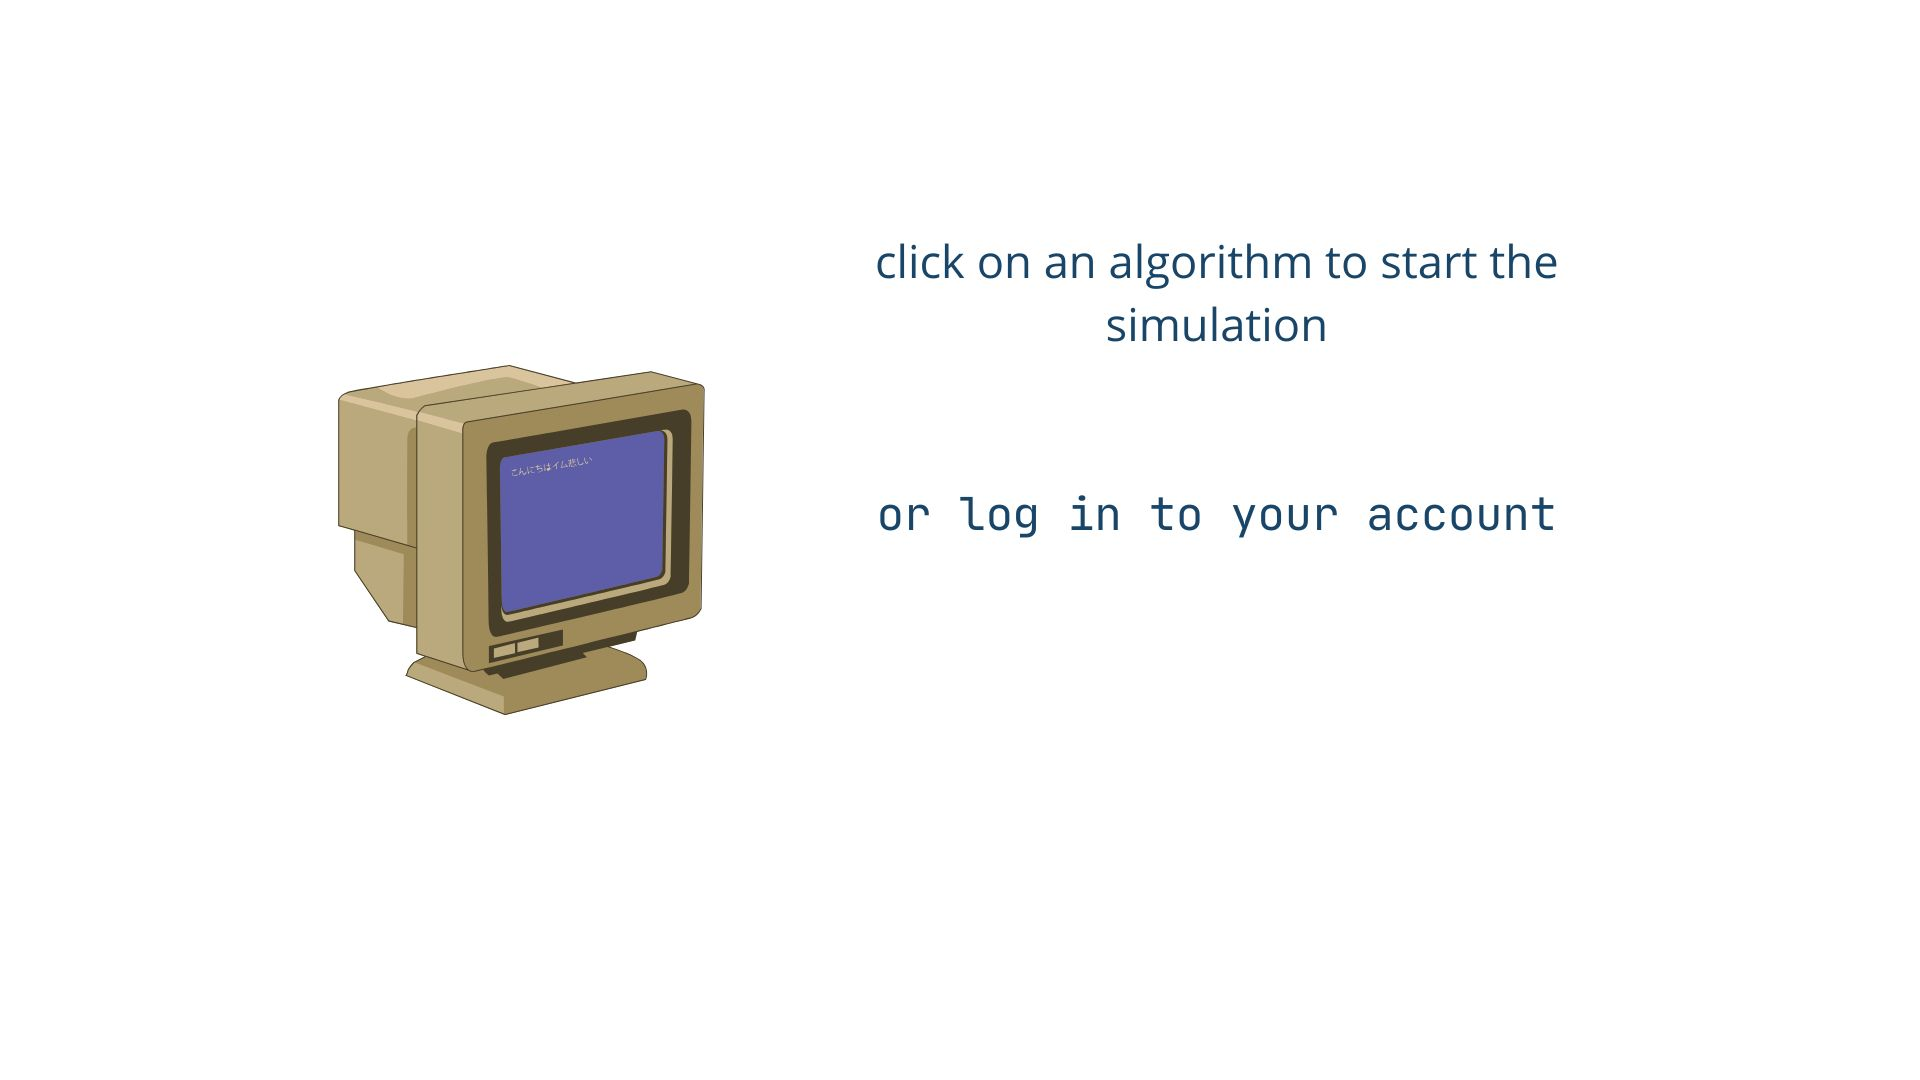
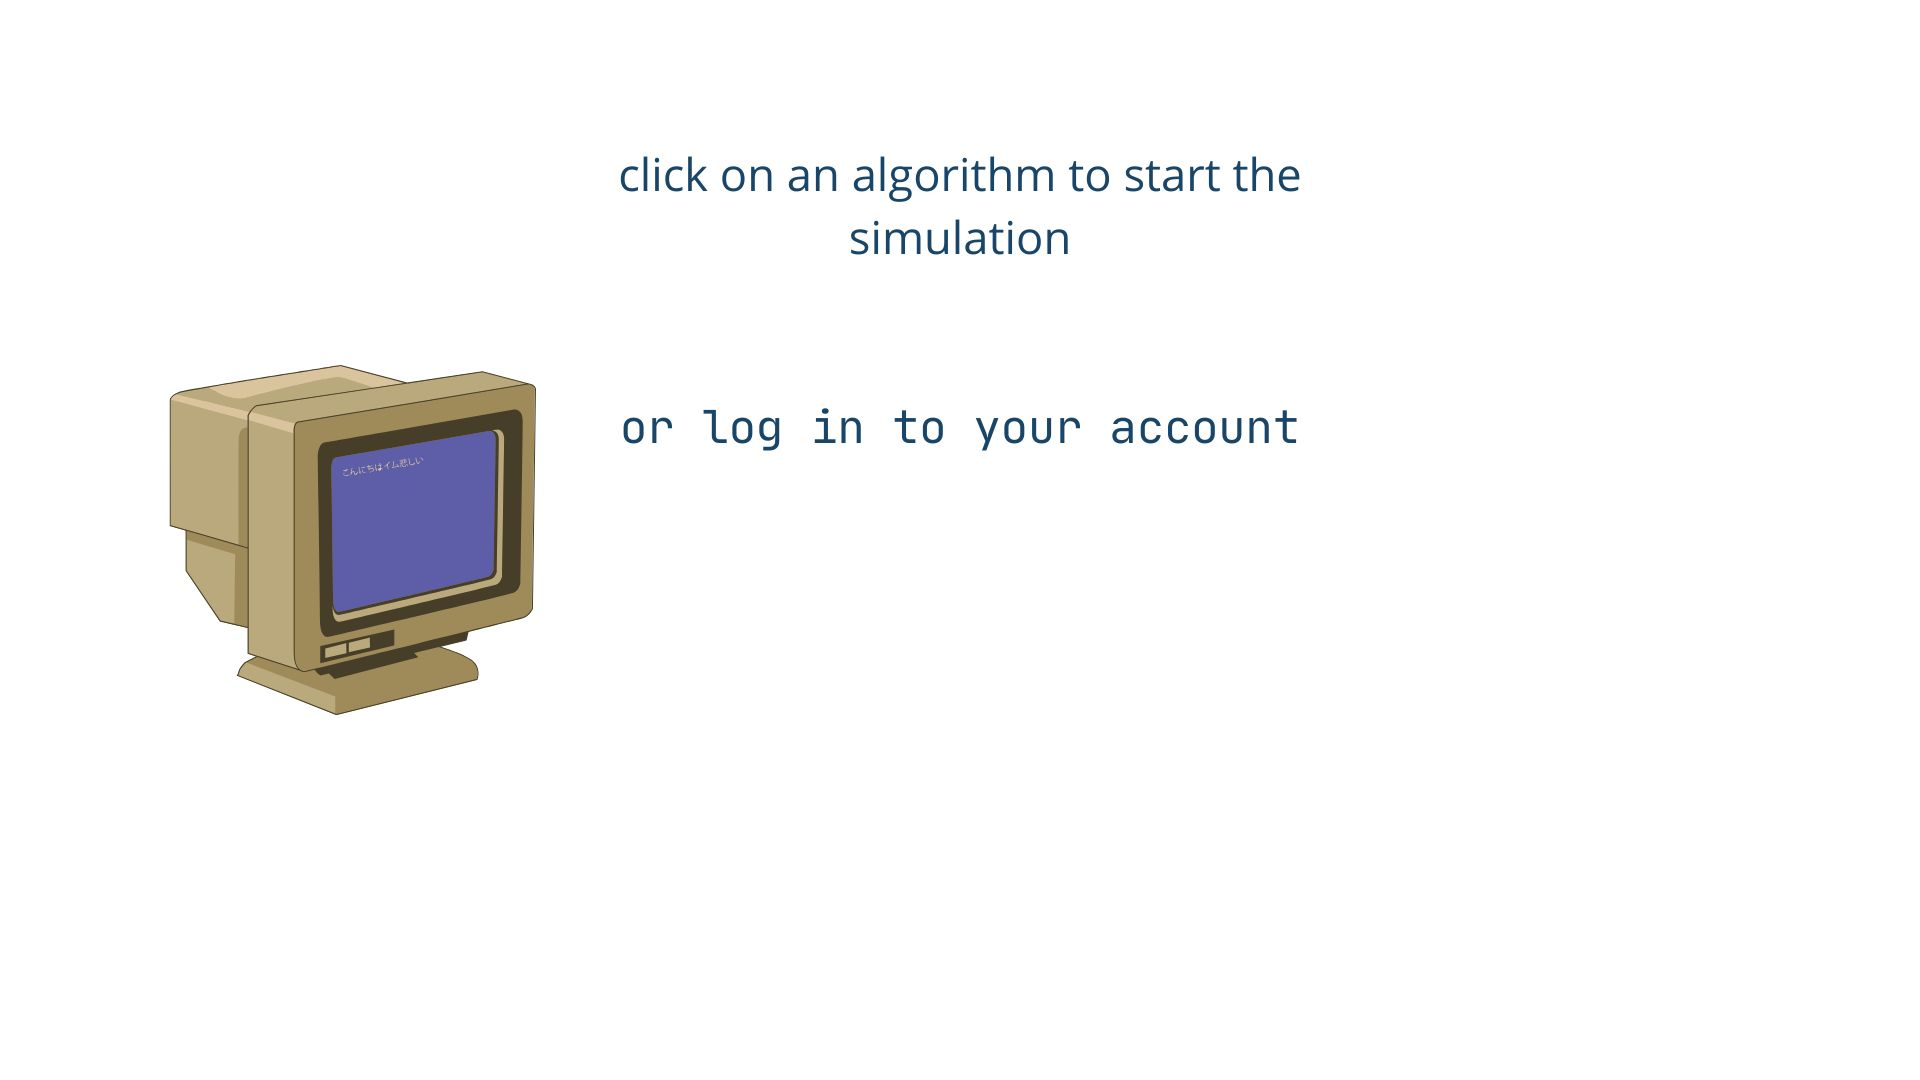
fix: css initial page onclick title and title not logged page

diff --git a/src/components/Title.jsx b/src/components/Title.jsx
@@ -1,8 +1,20 @@
 import React from 'react';
+import { useNavigate } from 'react-router-dom';
+import { useAuthState } from 'react-firebase-hooks/auth';
+import { auth } from '../config/firebase';
 
 export function Title() {
+  const navigate = useNavigate();
+  const [user] = useAuthState(auth);
+
+  const handleClick = () => {
+    if (!user) {
+      navigate('/');
+    }
+  };
+
   return (
-    <div className="title-container">
+    <div className="title-container" onClick={handleClick}>
       <h1 className="title">
         CPU SCHEDULING ALGORITHMS SIMULATOR
       </h1>

diff --git a/src/App.css b/src/App.css
@@ -348,7 +348,7 @@
   height: 70vh;
   width: 70%;
   margin: 0 auto;
-  background-image: url('https://cdn.discordapp.com/attachments/1300366647030452255/1339277770366390373/click_on_an_algorithm_to_start_the_simulation_or_log_in_to_your_account.jpg?ex=67ae231f&is=67acd19f&hm=6e53725890f3201ef3122899f5696b8998764943dad0b6ffc00eab63f7922879&');
+  background-image: url('../src/assets/initialpage.jpg');
   background-size: contain;
   background-repeat: no-repeat;
   background-position: center;

diff --git a/src/components/NotLoggedPage.jsx b/src/components/NotLoggedPage.jsx
@@ -1,6 +1,6 @@
 import React from 'react';
 import ButtonTypeOne from './ButtonTypeOne';
-import './../App.css';
+import '../App.css';
 import {auth} from '../config/firebase';
 
 const NotLoggedPage = () => {
